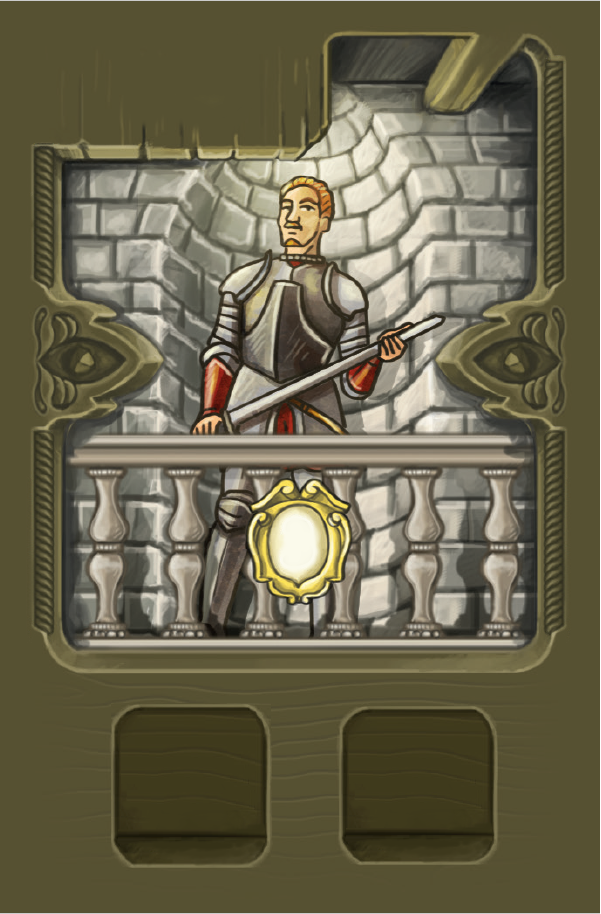
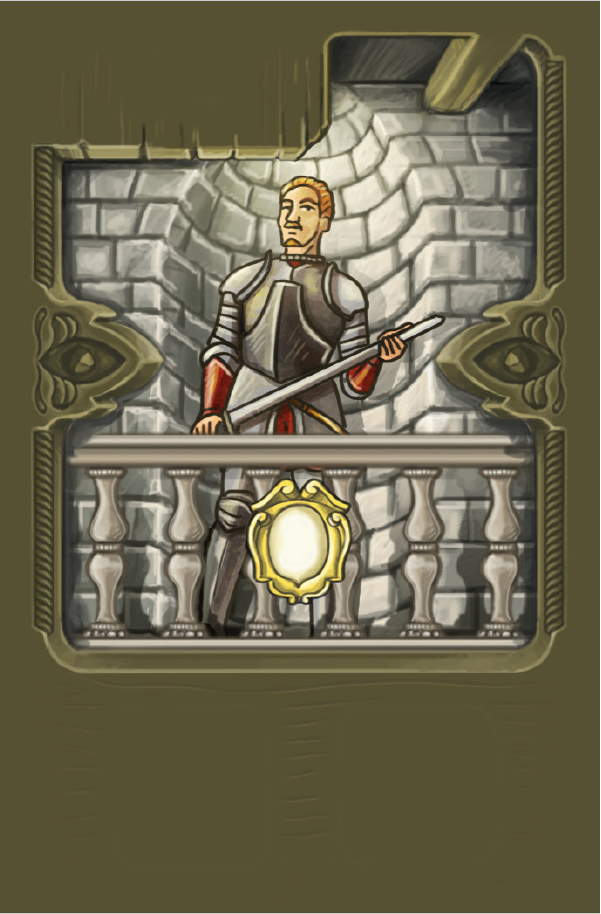
GUI: use Shelf component for leader depots

Changed region(s): [[0.5391, 0.7659, 0.8386, 0.9497], [0.1797, 0.7659, 0.4493, 0.9497]]

diff --git a/src/main/java/it/polimi/ingsw/client/gui/MarketController.java b/src/main/java/it/polimi/ingsw/client/gui/MarketController.java
@@ -159,8 +159,6 @@ public class MarketController extends GuiController {
      * Resets warehouse content to state from before market action
      */
     private void resetWarehouse() {
-        Gui gui = Gui.getInstance();
-
         warehouse = new Warehouse();
 
         List<ReducedResourceContainer> whShelves = vm.getPlayerWarehouseShelves(vm.getLocalPlayerNickname());
@@ -203,6 +201,7 @@ public class MarketController extends GuiController {
                     LOGGER.log(Level.SEVERE, "Unknown exception (TODO: Remove this)", e);
                 }
             }
+            // if the resource of choice was previously inserted in another shelf the moved
             if(db.hasString() && success) {
                 int id = Integer.parseInt((String) db.getContent(DataFormat.PLAIN_TEXT));
                 String resource = ((Resource) event.getGestureSource()).getName();
@@ -256,7 +255,11 @@ public class MarketController extends GuiController {
                         else
                             selection.get(id).remove(resource);
 
-                        warehouse.refreshShelfRemove(id);
+                        if(warehouse.getShelf(id) != null)
+                            warehouse.refreshShelfRemove(id);
+                        else leaderCards.stream()
+                                .filter(l -> l.getGuiDepot() != null && l.getGuiDepot().getBoundResource().equals(resource))
+                                .map(LeaderCard::getGuiDepot).findAny().ifPresent(Shelf::removeResource);
                         resourcesBox.getChildren().add(res);
                         setDragAndDropSource(res);
 //                        replacements.put(resource, replacements.containsKey(resource) ? replacements.get(resource) - 1 : 0);
@@ -312,39 +315,38 @@ public class MarketController extends GuiController {
                         // TODO handle substitution
                     } else {
                         leaderCard.setDepotContent(gui.getViewModel().getContainer(reducedLeader.getContainerId()).orElseThrow(),
-                                reducedLeader.getResourceType());
+                                reducedLeader.getResourceType(), true);
 
                         leaderCard.setOnDragOver((event) -> {
                             Dragboard db = event.getDragboard();
                             if (db.hasImage()) {
-                                event.acceptTransferModes(TransferMode.COPY);
+                                event.acceptTransferModes(TransferMode.MOVE);
                             }
                             event.consume();
                         });
 
-                        leaderCard.setOnDragDropped((event) -> {
+                        leaderCard.getGuiDepot().setOnDragDropped((event) -> {
+                            Shelf s = leaderCard.getGuiDepot();
                             Dragboard db = event.getDragboard();
                             boolean success = false;
-                            if (db.hasImage()) {
-
-                                int id = reducedLeader.getContainerId();
+                            try {
+                                int shelfID = (leaderCard.getGuiDepot()).getShelfId();
                                 String resource = ((Resource) event.getGestureSource()).getName();
 
-                                success = putChoice(resource, id);
-                                if(success) { // TODO check edge cases, ex adding more than 2 resources
-                                    ReducedResourceContainer lCont = leaderCard.getContainer();
-                                    Map<String, Integer> content = lCont.getContent();
-                                    content.compute(resource, (k, v) -> v == null ? 1 : v++);
-                                    ReducedResourceContainer newContainer = new ReducedResourceContainer(lCont.getId(), lCont.getSize(), content, lCont.getBoundedResType().orElse(null));
-
-                                    leaderCard.setDepotContent(newContainer, reducedLeader.getResourceType());
-
-                                    removeResourceFromBox(resource);
+                                if(s.getContentSize() < s.getSize() && (s.getBoundResource() == null || s.getBoundResource().equalsIgnoreCase(resource))) {
+                                    success = putChoice(resource, shelfID);
+                                    if (success) {
+                                        s.addResourceDraggable(resource);
+                                        if(!db.hasString())
+                                            removeResourceFromBox(resource);
+                                        replacements.put(resource, replacements.containsKey(resource) ? replacements.get(resource) + 1 : 1);
+                                    }
                                 }
 
+                            } catch (Exception e) { // TODO remove this catch once debugged
+                                LOGGER.log(Level.SEVERE, "Unknown exception (TODO: Remove this)", e);
                             }
                             if(db.hasString() && success) {
-                                success = false;
                                 int id = Integer.parseInt((String) db.getContent(DataFormat.PLAIN_TEXT));
                                 String resource = ((Resource) event.getGestureSource()).getName();
 
@@ -354,11 +356,11 @@ public class MarketController extends GuiController {
                                 else
                                     selection.get(id).remove(resource);
 
-                                // warehouse.refreshShelfRemove(id, resource);
-                                success = false;
+                                s.removeResource();
                             }
                             event.setDropCompleted(success);
                             event.consume();
+
                         });
                     }
 

diff --git a/src/main/java/it/polimi/ingsw/client/gui/components/Shelf.java b/src/main/java/it/polimi/ingsw/client/gui/components/Shelf.java
@@ -1,10 +1,13 @@
 package it.polimi.ingsw.client.gui.components;
 
+import it.polimi.ingsw.client.gui.Gui;
 import it.polimi.ingsw.common.reducedmodel.ReducedResourceContainer;
 import javafx.css.PseudoClass;
 import javafx.geometry.Insets;
 import javafx.geometry.Pos;
 import javafx.scene.Node;
+import javafx.scene.image.Image;
+import javafx.scene.image.ImageView;
 import javafx.scene.input.ClipboardContent;
 import javafx.scene.input.Dragboard;
 import javafx.scene.input.TransferMode;
@@ -16,6 +19,7 @@ import javafx.scene.text.Text;
 
 import java.util.HashMap;
 import java.util.Map;
+import java.util.Optional;
 import java.util.function.BiConsumer;
 import java.util.logging.Logger;
 
@@ -31,6 +35,8 @@ public class Shelf extends BorderPane {
     private final Circle swapIcon = new Circle(10, Color.WHITE);
     private final BiConsumer<Integer, Integer> callback;
     private final Text sizeText;
+    private boolean hasPlaceholder;
+    private boolean isLeaderDepot;
 
     /**
      * Class constructor.
@@ -72,6 +78,19 @@ public class Shelf extends BorderPane {
     }
 
     /**
+     * Class constructor.
+     *
+     * @param shelf         the cached shelf
+     * @param maxHeight     the max height dimension of the component
+     * @param contentWidth  the max width dimension of the content in the component
+     * @param isLeaderDepot true if belonging to a leader card
+     */
+    public Shelf(ReducedResourceContainer shelf, double maxHeight, double contentWidth, boolean isLeaderDepot) {
+        this(shelf, maxHeight, contentWidth, (a, b) -> {});
+        this.isLeaderDepot = isLeaderDepot;
+    }
+
+    /**
      * Sets and displays the shelf content.
      *
      * @param content the content, as HBox component
@@ -86,6 +105,7 @@ public class Shelf extends BorderPane {
      * @param r the resource as Gui component
      */
     public void addResource(Resource r) {
+        removePlaceholder();
         r.setPreserveRatio(true);
         r.setFitHeight(this.getMinHeight());
         ((HBox) this.getCenter()).getChildren().add(r);
@@ -97,6 +117,7 @@ public class Shelf extends BorderPane {
      * @param resource the resource type
      */
     public void addResource(String resource) {
+        removePlaceholder();
         Resource r = new Resource();
         r.setResourceType(resource);
 
@@ -126,6 +147,8 @@ public class Shelf extends BorderPane {
      */
     public void removeResource() {
         content.getChildren().remove(content.getChildren().size() - 1);
+        if(isLeaderDepot)
+            setPlaceholder(getBoundResource());
     }
 
     /**
@@ -143,7 +166,8 @@ public class Shelf extends BorderPane {
      * @return the shelf's bound resource type
      */
     public String getBoundResource() {
-        if (content.getChildren().size() <= 0) return null;
+        if (content.getChildren().size() <= 0 && !isLeaderDepot) return null;
+        if(isLeaderDepot) return Gui.getInstance().getViewModel().getContainer(shelfId).flatMap(ReducedResourceContainer::getBoundedResType).orElse(null);
         return ((Resource)content.getChildren().get(0)).getName();
     }
 
@@ -272,6 +296,52 @@ public class Shelf extends BorderPane {
                 }
             });
         }
+    }
+
+    public void setPlaceholder(String resource) {
+        this.hasPlaceholder = true;
+        ImageView img = new ImageView(new Image(getResourcePlaceholderPath(resource)));
+
+        img.setFitHeight(30);
+        img.setFitWidth(30);
+        content.getChildren().add(img);
+    }
+
+    /**
+     * Getter of the path to the PNG of the depot placeholder.
+     *
+     * @param resourceType  the depot's bound resource type
+     * @return  the path to the PNG resource representing a depot placeholder
+     */
+    private String getResourcePlaceholderPath(String resourceType) {
+        return String.format("/assets/gui/leadertemplates/%sdepot.png", resourceType.toLowerCase());
+    }
+
+    private void removePlaceholder() {
+        Optional<ReducedResourceContainer> container = Gui.getInstance().getViewModel().getContainer(shelfId);
+        container.ifPresent(c -> {
+            if(content.getChildren().size() == 1 && c.getContent().size() == 0) {
+                this.hasPlaceholder = false;
+                content.getChildren().clear();
+            }
+        });
+    }
+
+    public void addResourceDraggable(String resource) {
+        //TODO duplicated in Warehouse
+        Resource r = new Resource();
+        r.setResourceType(resource);
+        this.addResource(r);
+
+        r.setOnDragDetected((event) -> {
+                    Dragboard db = r.startDragAndDrop(TransferMode.ANY);
+                    ClipboardContent content = new ClipboardContent();
+                    content.putImage(r.getImage());
+                    content.putString(this.getShelfId()+"");
+                    db.setContent(content);
+                    event.consume();
+                }
+        );
     }
 
 //    private void disableSwapDnD() {

diff --git a/src/main/java/it/polimi/ingsw/client/gui/components/LeaderCard.java b/src/main/java/it/polimi/ingsw/client/gui/components/LeaderCard.java
@@ -30,6 +30,7 @@ public class LeaderCard extends Card {
     private int leaderId;
 
     private boolean isActivated;
+    private Shelf depot;
 
     /**
      * Class constructor.
@@ -170,67 +171,33 @@ public class LeaderCard extends Card {
         return content;
     }
 
+    public Shelf getGuiDepot() { return depot; }
+
     /**
      * Sets and displays the depots content (valid for depot leaders).
      *
      * @param container the resource container of the leader card
      * @param boundRes  the depots' bound resource type
      */
-    public void setDepotContent(ReducedResourceContainer container, String boundRes) {
+    public void setDepotContent(ReducedResourceContainer container, String boundRes, boolean wantsDnD) {
         content = container;
 
-        double x1 = getWidth() * 0.22;
-        double x2 = getWidth() * 0.59;
-        double y = getHeight() * 0.80;
+        Shelf shelf = new Shelf(container, 40, 95, true);
+        shelf.setLayoutY(200);
+        this.getChildren().add(shelf);
 
-        if (container == null) {
-            fillDepot(x1, y, boundRes, true);
-            fillDepot(x2, y, boundRes, true);
-            return;
+        if(container.getContent().size() == 0)
+            shelf.setPlaceholder(boundRes);
+        else
+            for(int i = 0; i < container.getContent().get(boundRes); i++) {
+            if(wantsDnD)
+                shelf.addResourceDraggable(boundRes);
+            else
+                shelf.addResource(boundRes);
         }
 
-        Map<String, Integer> content = container.getContent();
+        this.depot = shelf;
 
-        content.keySet().stream().findAny().ifPresentOrElse(r -> {
-            int size = content.get(r);
-            fillDepot(x1, y, r, false);
-            fillDepot(x2, y, r, size < 2);
-        }, () -> {
-            fillDepot(x1, y, boundRes, true);
-            fillDepot(x2, y, boundRes, true);
-        });
-
-    }
-
-    /**
-     * Displays the depot content (using a placeholder if empty).
-     *
-     * @param x         the horizontal coordinate for placing the ImageView
-     * @param y         the vertical coordinate for placing the ImageView
-     * @param boundRes  the depot's bound resource type
-     * @param isEmpty   true if the leader depot is unoccupied
-     */
-    private void fillDepot(double x, double y, String boundRes, boolean isEmpty) {
-        ImageView img = new ImageView(new Image(getResourcePlaceholderPath(boundRes, isEmpty)));
-        img.setX(x);
-        img.setY(y);
-
-        img.setFitHeight(getHeight() * 0.14);
-        img.setFitWidth(getHeight() * 0.14);
-        this.getChildren().add(img);
-    }
-
-    /**
-     * Getter of the path to the PNG of the depot content.
-     *
-     * @param resourceType  the depot's bound resource type
-     * @param isEmpty       true if the leader depot is unoccupied
-     * @return  the path to the PNG resource representing the depot content
-     */
-    private String getResourcePlaceholderPath(String resourceType, boolean isEmpty) {
-        if (isEmpty)
-            return String.format("/assets/gui/leadertemplates/%sdepot.png", resourceType.toLowerCase());
-        return String.format("/assets/gui/resourcetypes/%s.png", resourceType.toLowerCase());
     }
 
     /**

diff --git a/src/main/java/it/polimi/ingsw/client/gui/SetupLeadersController.java b/src/main/java/it/polimi/ingsw/client/gui/SetupLeadersController.java
@@ -69,7 +69,7 @@ public class SetupLeadersController extends GuiController {
                 leaderCard.setProduction(vm.getProduction(reducedLeader.getProduction()).orElseThrow());
             else
                 leaderCard.setDepotContent(vm.getContainer(reducedLeader.getContainerId()).orElseThrow(),
-                        reducedLeader.getResourceType());
+                        reducedLeader.getResourceType(), false);
 
             leaderCard.addEventHandler(MouseEvent.MOUSE_CLICKED, mouseEvent -> {
                 if (selection.contains(leaderCard)) {

diff --git a/src/main/java/it/polimi/ingsw/client/gui/PlaygroundController.java b/src/main/java/it/polimi/ingsw/client/gui/PlaygroundController.java
@@ -127,7 +127,7 @@ public abstract class PlaygroundController extends GuiController {
                     leaderCard.setProduction(vm.getProduction(reducedLeader.getProduction()).orElseThrow());
                 else
                     leaderCard.setDepotContent(vm.getContainer(reducedLeader.getContainerId()).orElseThrow(),
-                            reducedLeader.getResourceType());
+                            reducedLeader.getResourceType(), false);
 
                 leaderCard.setActivated(reducedLeader.isActive());
 

diff --git a/src/main/java/it/polimi/ingsw/common/backend/model/resourcecontainers/ResourceShelf.java b/src/main/java/it/polimi/ingsw/common/backend/model/resourcecontainers/ResourceShelf.java
@@ -63,6 +63,6 @@ public class ResourceShelf extends Shelf {
 
     @Override
     public ReducedResourceContainer reduce() {
-        return new ReducedResourceContainer(getId(), -1, getResourceType().isPresent() ? Map.of(getResourceType().get().getName(), getQuantity()) : Map.of(), boundedResType.getName());
+        return new ReducedResourceContainer(getId(), getSize(), getResourceType().isPresent() ? Map.of(getResourceType().get().getName(), getQuantity()) : Map.of(), boundedResType.getName());
     }
 }
